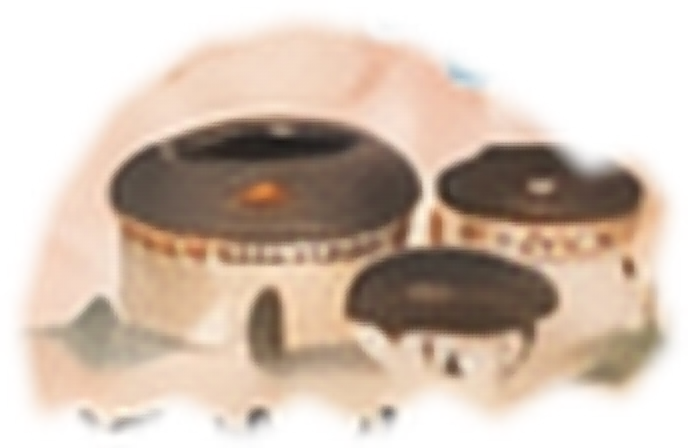
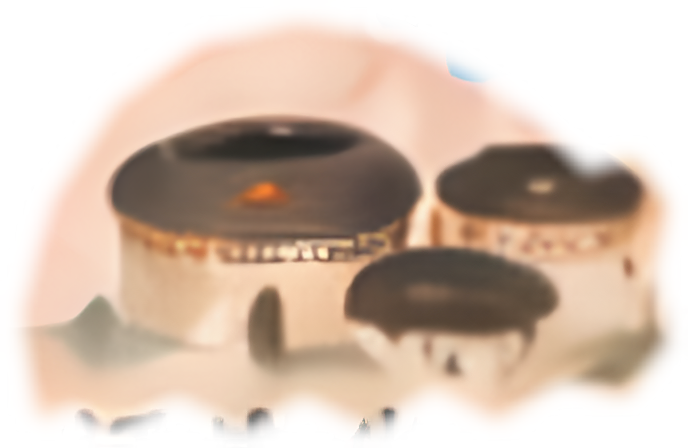
fix: 插画清晰度根本性重制 —— Real-ESRGAN 替代 FSRCNN + 黄鹤楼完整场景重抠
- 全部 9 张改用 Real-ESRGAN x4plus-anime (GPU) 超分, 纹理重建远优于 FSRCNN,
  辅以轻锐化 + 饱和补偿 (multiply 混合压饱和)
- 黄鹤楼按完整场景重抠: 塔+底座+双松+灌木, 沿水彩自然边界取形,
  不再截断; 显示尺寸 46→84
- 借豫鄂白色分界线定位顶边, 避开河南省/湖北省文字与邻省色块

diff --git a/web/src/data/provArt.ts b/web/src/data/provArt.ts
@@ -23,7 +23,7 @@ export const PROV_ART: ProvArt[] = [
   { prov: '北京市', short: '北京', coord: [116.44, 41.13],  file: 'prov-beijing.png', size: 40 },
   { prov: '山西省', short: '山西', coord: [112.45, 40.23],  file: 'prov-shanxi.png',  size: 60 },
   { prov: '河南省', short: '河南', coord: [112.59, 33.96],  file: 'prov-henan.png',   size: 78 },
-  { prov: '湖北省', short: '湖北', coord: [108.67, 30.5],   file: 'prov-hubei.png',   size: 46 },
+  { prov: '湖北省', short: '湖北', coord: [108.67, 30.5],   file: 'prov-hubei.png',   size: 84 },
   { prov: '江苏省', short: '江苏', coord: [120.74, 33.3],   file: 'prov-jiangsu.png', size: 92 },
   { prov: '安徽省', short: '安徽', coord: [117.34, 32.28],  file: 'prov-anhui.png',   size: 80 },
   { prov: '福建省', short: '福建', coord: [116.54, 26.76],  file: 'prov-fujian.png',  size: 70 },
